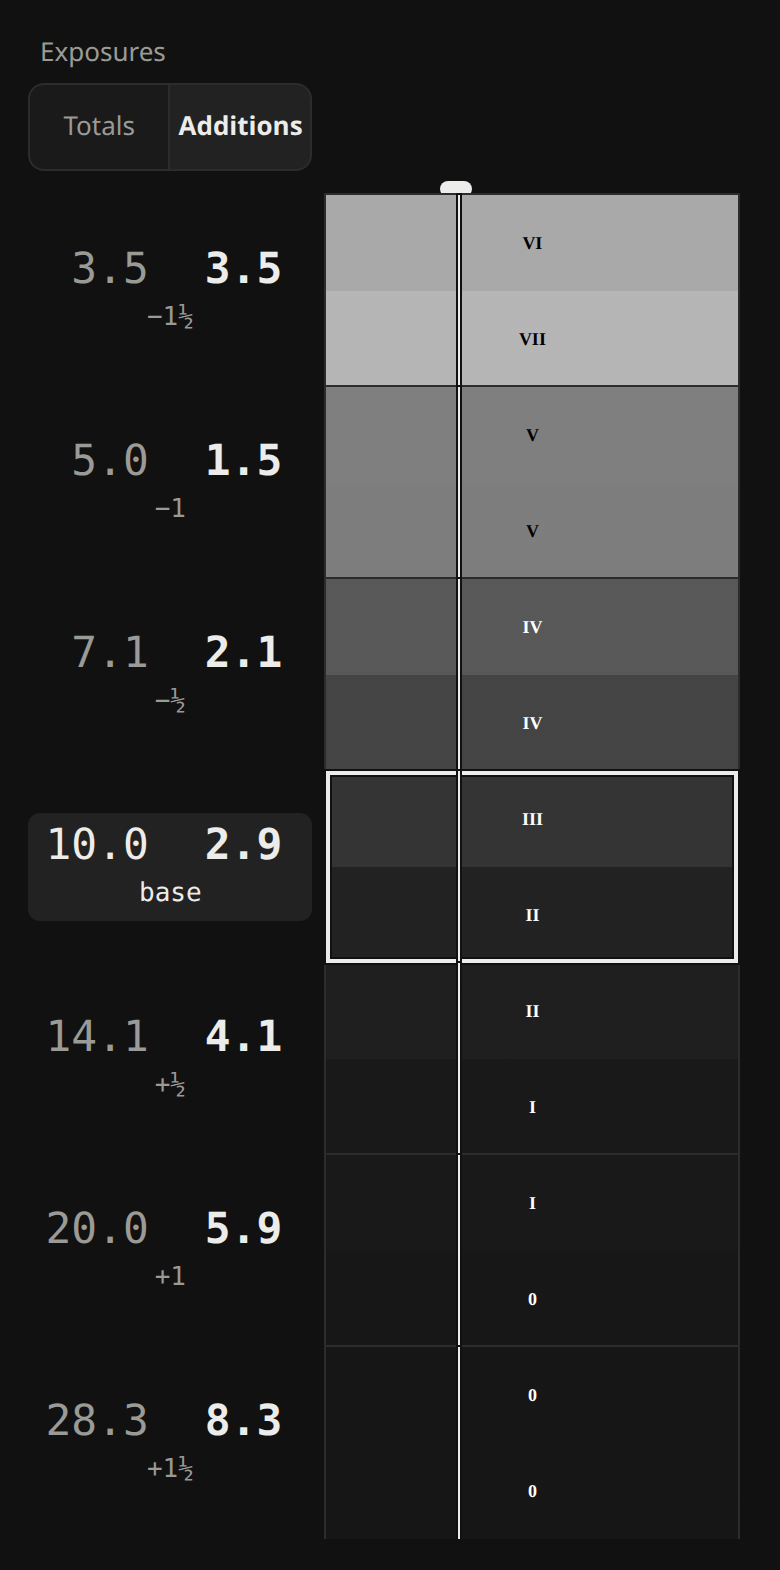
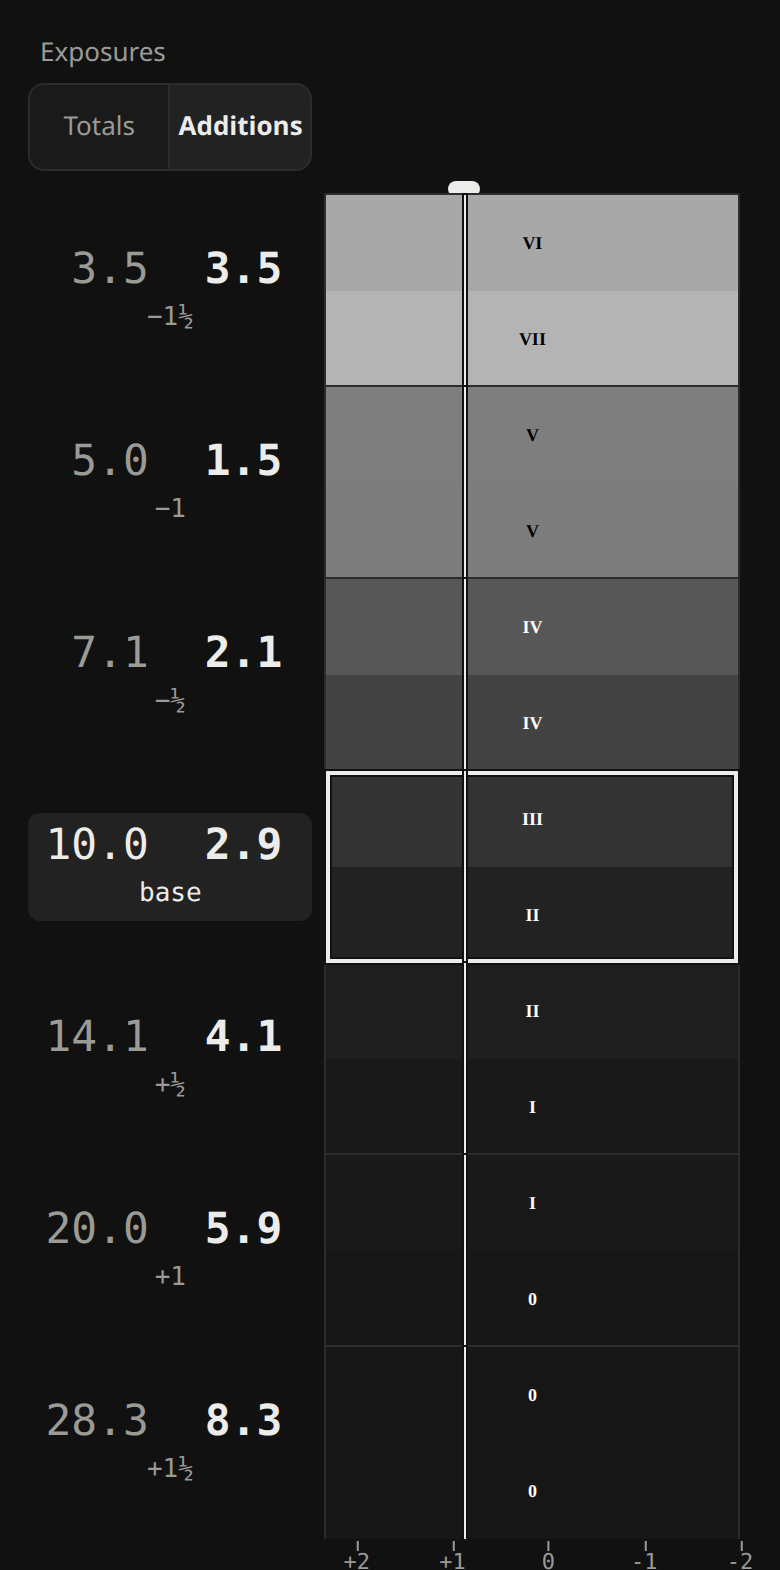
README and figures for the axis

diff --git a/README.md b/README.md
@@ -35,7 +35,7 @@ The map has one row for each patch, with two figures side by side. On the left i
 The switch over the figures, **Totals** or **Additions**, says which of the two a run in the darkroom gives each patch, and that column is in ink: totals for a strip exposed patch by patch in a holder with a window, additions for a strip covered as it goes. With a timer, either figure is all there is to it; more on the run below.
 
 ### Reading the map
-The strips are a rough simulation of what the patches are going to look like, in the zones of the Zone System: 0 is full black, V is middle grey and X is paper white. The base patch's strip is simply the scale from 0 to X, and every other strip is that same scale after the patch's exposure. A place across the map is one part of the picture. So we pick a tone in the base row, say a highlight in Zone VIII, and look straight up and down: the zone we find at that same place in another row is what that highlight prints as in that patch. Here it is a IX one patch lighter and paper white beyond that; one patch darker it is a VII, then a VI, and a V on the last patch.
+The strips are a rough simulation of what the patches are going to look like, in the zones of the Zone System: 0 is full black, V is middle grey and X is paper white. The strips share one axis, the exposure in stops, and there is a scale of it under the map, zero at the base patch's middle grey and more exposure to the left. The base patch's strip shows the paper's zones at the filter chosen, each as wide as the exposure it spans — so a soft filter spreads them out and a hard one packs them together — and every other strip is the same scale shifted by that patch's exposure. A place across the map is one part of the picture. So we pick a tone in the base row, say a highlight in Zone VIII, and look straight up and down: the zone we find at that same place in another row is what that highlight prints as in that patch. Here it is a IX one patch lighter and paper white beyond that; one patch darker it is a VII, then a VI, and a V on the last patch.
 
 The zones are coarse, and a lot can happen inside one. For the nuances, slide a finger sideways along any strip, or drag with the mouse. The map then stops showing the scale, and every strip shows one single tone in full: the tone that the part of the picture under the finger gets in that patch, with the zone it is nearest to. The pin stays where the finger leaves it, and sliding picks nothing.
 
@@ -54,7 +54,7 @@ The strip is developed and dry, and the fourth patch, the base's 10 seconds, loo
 
 <p align="center"><img src="figures/web-compare.png" width="300" align="top" alt="Filter 2 compared with filter 3: every row has a second strip under its first, where the zones lie closer together"> <img src="figures/web-compare-slide.png" width="300" align="top" alt="Sliding along the base row over a shadow in Zone III: through filter 3 the same patch prints it as Zone II"></p>
 
-Every row now has a second strip under its first. It is the same patch, exposed for the same seconds, but through filter 3. The strips are read exactly as before, and a place across them is still one part of the picture. So we find our shadow in the base row's upper strip and look at the strip right under it: the III becomes a II, which is what we wanted. And the highlights? The same slide over the Zone VIII highlight shows filter 3 lifting it to a IX at 10 seconds, and an VIII again half a stop up, at 14.1. So filter 3 it is, and the exposure lies somewhere between 10 and 14.1 seconds. That is what the next strip is for: 12 as the base, 1/6 stop steps, 5 patches, and the filter slider up to 3 — or, to start the strip at the base and only go up from there, the first patch tapped as the base.
+Every row now has a second strip under its first. It is the same patch, exposed for the same seconds, but through filter 3. The strips are read exactly as before, and a place across them is still one part of the picture. So we find our shadow in the base row's upper strip and look at the strip right under it: the III becomes a II, which is what we wanted. And the highlights? The same slide over the Zone VIII highlight shows filter 3 lifting it to a IX at 10 seconds, and half a stop up, at 14.1, it is a VII on either filter. So filter 3 it is, and the exposure lies somewhere between 10 and 14.1 seconds. That is what the next strip is for: 12 as the base, 1/6 stop steps, 5 patches, and the filter slider up to 3 — or, to start the strip at the base and only go up from there, the first patch tapped as the base.
 
 The two filters are lined up by the paper speeds in Ilford's data sheets. Multigrade filters are speed matched: 00 to 3 need the same exposure, and 4 and 5 need more — a whole stop on Multigrade IV and on Art 300, about an eighth of one on FB Classic and the current RC Deluxe, if the sheets are to be believed. With other filters, a colour head, or filters that have faded over the years this is going to be off, so the same goes as before: the strips are there to build intuition.
 
